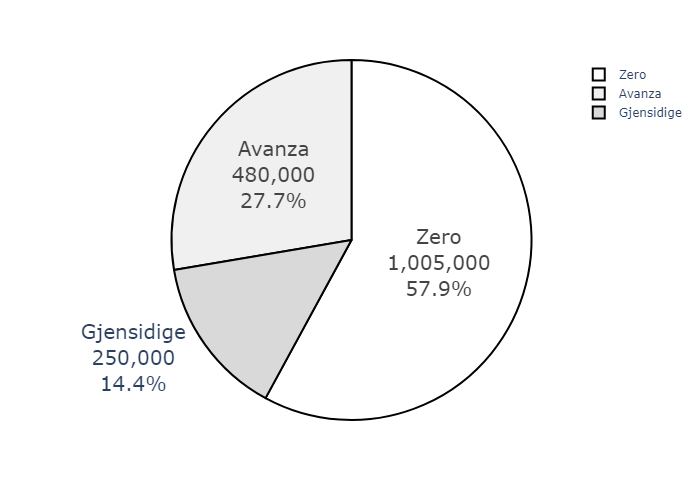
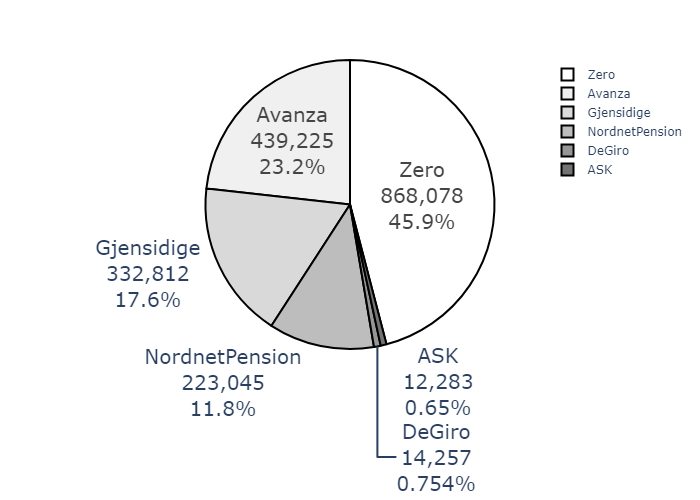
v0.4

diff --git a/sankey-1.py b/sankey-1.py
@@ -1,0 +1,69 @@
+import plotly.graph_objects as go
+"""
+labels  = [
+    "Gjensidige",
+    "NordnetPension",
+    "Zero",
+    "ASK",
+    "Avanza",
+    "DeGiro",
+    "Pension",
+    "Equity",
+    "Total",
+    ]
+parents =[
+    "Pension",
+    "Pension",
+    "Equity",
+    "Equity",
+    "Equity",
+    "Equity",
+    "Total",
+    "Total",
+    "",
+    ]
+
+values = [
+    332812,
+    223045,
+    868078,
+    12283,
+    439225,
+    14257,
+    555857,
+    1333843,
+    1889700,
+]
+"""
+
+label = [
+    "0Avanza",
+    "1Zero",
+    "2Gjen",
+    "3equity",
+    "4Pension accnt",
+    "5Total"
+]
+
+source = [0, 1, 2, 3, 4]
+target = [3, 3, 4, 5, 5]
+values = [1, 2, 3, 4, 5]
+
+fig = go.Figure(data=[go.Sankey(
+    node = dict(
+      pad = 15,
+      thickness = 20,
+      line = dict(color = "black", width = 0.5),
+      label = label,
+      color = "blue"
+    ),
+    link = dict(
+      source = source, # indices correspond to labels, eg A1, A2, A1, B1, ...
+      target = target,
+      value = values
+  ))])
+
+fig.update_layout(title_text="Basic Sankey Diagram", font_size=10)
+
+fig.write_image("images/sankey-1.png")
+#fig.show()

diff --git a/graph-pie.py b/graph-pie.py
@@ -3,8 +3,15 @@ import plotly.express as px
 # colors = ['gold', 'mediumturquoise', 'darkorange', 'lightgreen']
 # df = px.data.tips()
 
-labels = ["Zero", "Avanza", "Gjensidige"]
-values = [1005000, 480000, 250000]
+labels  = [
+    "Gjensidige",
+    "NordnetPension",
+    "Zero",
+    "ASK",
+    "Avanza",
+    "DeGiro",
+	]
+values = [332812, 223045, 868078, 12283, 439225, 14257]
 
 fig = px.pie(
     labels=labels,
@@ -27,3 +34,4 @@ fig.update_traces(
 
 fig.write_image("images/pie.png")
 # fig.show()
+ 
